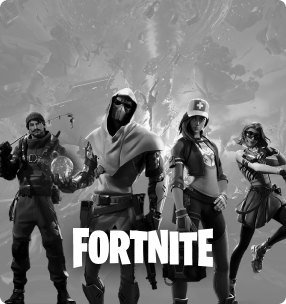
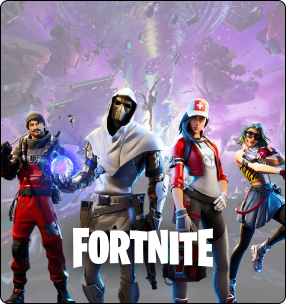
section-2-hover-mistakes-solved

diff --git a/index.html b/index.html
@@ -63,7 +63,7 @@
                         </li>
                         <li class="d-lg-none">
                             <button class="Signin-btn fw-medium fs-lg border-0 font-normalidad">
-                                SIGN IN
+                                SIGN UP
                             </button>
                         </li>
                     </ul>
@@ -81,7 +81,7 @@
                     </li>
                     <li>
                         <button class="Signin-btn fw-medium fs-lg  border-0 font-normalidad">
-                            SIGN IN
+                            SIGN UP
                         </button>
                     </li>
                 </ul>
@@ -170,25 +170,28 @@
                     <img class="position-absolute coming-soon-img" src="./assets/image/png/coming-soon-img.png"
                         alt="coming-soon-img" />
                     <div class="d-flex gap-2 mt-3">
-                        <svg width="40" height="40" viewBox="0 0 40 40" fill="none" xmlns="http://www.w3.org/2000/svg">
+                        <svg class="section-2-svg" width="40" height="40" viewBox="0 0 40 40" fill="none"
+                            xmlns="http://www.w3.org/2000/svg">
                             <path
                                 d="M0 8C0 3.58172 3.58172 0 8 0H32C36.4183 0 40 3.58172 40 8V32C40 36.4183 36.4183 40 32 40H8C3.58172 40 0 36.4183 0 32V8Z"
-                                fill="#151A1F" />
+                                fill="black" />
                             <path
-                                d="M7.28103 10.4234C7.43861 10.3376 7.53903 10.5109 7.62404 10.6022C13.0938 16.8496 18.5701 23.0924 24.0394 29.3398C24.1518 29.4288 24.0667 29.6189 23.9151 29.5985C21.2963 29.6012 18.677 29.5994 16.0582 29.5994C15.8484 29.6017 15.6475 29.5064 15.5188 29.357C12.8015 26.2576 10.0858 23.1569 7.36852 20.057C7.25319 19.9317 7.19353 19.7697 7.20099 19.6068C7.20099 16.6122 7.20199 13.6172 7.2 10.6226C7.20149 10.5518 7.19851 10.4601 7.28103 10.4234Z"
-                                fill="white" />
+                                d="M7.28103 10.4234C7.43861 10.3376 7.53903 10.5109 7.62404 10.6022C13.0938 16.8496 18.5701 23.0924 24.0394 29.3398C24.1518 29.4288 24.0668 29.6189 23.9151 29.5985C21.2963 29.6012 18.677 29.5994 16.0582 29.5994C15.8484 29.6017 15.6475 29.5064 15.5188 29.357C12.8015 26.2576 10.0858 23.1569 7.36852 20.057C7.25319 19.9317 7.19353 19.7697 7.20099 19.6068C7.20099 16.6122 7.20199 13.6172 7.2 10.6226C7.20149 10.5518 7.19851 10.4601 7.28103 10.4234Z"
+                                fill="#CC3944" />
                             <path
-                                d="M32.5784 10.4088C32.6903 10.3702 32.8136 10.4647 32.7972 10.5718C32.8011 13.5677 32.7967 16.5636 32.7991 19.5596C32.8066 19.7293 32.7658 19.9049 32.645 20.0384C31.8193 20.9815 30.9926 21.9242 30.1669 22.8668C30.0292 23.0302 29.804 23.1206 29.5788 23.1101C26.9774 23.1078 24.3755 23.1115 21.774 23.1083C21.6204 23.1301 21.5329 22.9408 21.6463 22.8496C25.2539 18.729 28.8644 14.6098 32.474 10.4901C32.5014 10.4547 32.5362 10.4274 32.5784 10.4088Z"
-                                fill="white" />
+                                d="M32.5784 10.4088C32.6903 10.3702 32.8136 10.4647 32.7972 10.5718C32.8011 13.5677 32.7967 16.5636 32.7991 19.5596C32.8066 19.7293 32.7658 19.9049 32.645 20.0384C31.8193 20.9815 30.9926 21.9242 30.1669 22.8668C30.0292 23.0302 29.804 23.1205 29.5788 23.1101C26.9774 23.1078 24.3755 23.1115 21.774 23.1083C21.6204 23.1301 21.5329 22.9408 21.6463 22.8496C25.2539 18.729 28.8644 14.6098 32.474 10.4901C32.5014 10.4547 32.5362 10.4274 32.5784 10.4088Z"
+                                fill="#CC3944" />
                         </svg>
                         <p class="fw-bold fs-lg text-white pt-1 font-normalidad">Valorant</p>
                     </div>
                 </div>
-                <div class="section-2-games-box">
+                <div class="section-2-games-box position-relative">
                     <img class="w-100 section-2-mx-w-h" src="./assets/image/png/Apex-section-2-img.png"
                         alt="Apex-section-2-img" />
+                    <img class="position-absolute coming-soon-img" src="./assets/image/png/coming-soon-img.png"
+                        alt="coming-soon-img" />
                     <div class="d-flex gap-2 mt-3">
-                        <svg class="mt-1" width="40" height="40" viewBox="0 0 40 40" fill="none"
+                        <svg class="section-2-svg" class="mt-1" width="40" height="40" viewBox="0 0 40 40" fill="none"
                             xmlns="http://www.w3.org/2000/svg">
                             <path
                                 d="M0 8C0 3.58172 3.58172 0 8 0H32C36.4183 0 40 3.58172 40 8V32C40 36.4183 36.4183 40 32 40H8C3.58172 40 0 36.4183 0 32V8Z"
@@ -209,12 +212,13 @@
                     <img class="position-absolute coming-soon-img" src="./assets/image/png/coming-soon-img.png"
                         alt="coming-soon-img" />
                     <div class="d-flex gap-2 mt-3">
-                        <svg width="40" height="40" viewBox="0 0 40 40" fill="none" xmlns="http://www.w3.org/2000/svg">
+                        <svg class="section-2-svg" width="40" height="40" viewBox="0 0 40 40" fill="none"
+                            xmlns="http://www.w3.org/2000/svg">
                             <path
                                 d="M0 8C0 3.58172 3.58172 0 8 0H32C36.4183 0 40 3.58172 40 8V32C40 36.4183 36.4183 40 32 40H8C3.58172 40 0 36.4183 0 32V8Z"
-                                fill="#151A1F" />
+                                fill="#312151" />
                             <path
-                                d="M19.4953 7.19995C19.5445 7.22757 19.5981 7.21679 19.6499 7.21679C20.7192 7.21731 21.7884 7.21389 22.8576 7.21836C23.4181 7.22073 23.9789 7.2423 24.5394 7.2444C24.8677 7.24572 25.1957 7.2231 25.5239 7.21705C25.7191 7.21337 25.7465 7.23809 25.7309 7.42563C25.6886 7.9417 25.7249 8.45855 25.7041 8.97462C25.6536 10.2309 25.6852 11.4874 25.6747 12.7439C25.6741 12.8004 25.6676 12.8572 25.6597 12.9135C25.6494 12.9879 25.6021 13.0198 25.5297 13.0106C25.1157 12.9582 24.6991 12.9672 24.2837 12.9669C23.4557 12.9661 22.6277 12.9808 21.7999 12.9922C21.5853 12.995 21.3709 13.0074 21.1566 13.0182C20.9824 13.0271 20.9682 13.0424 20.9682 13.2102C20.968 14.3925 20.9677 15.5749 20.9682 16.7569C20.9682 16.9621 20.9748 16.9631 21.1858 16.9673C21.8825 16.9813 22.5793 16.9579 23.2745 16.9308C23.6801 16.915 24.0886 16.9221 24.4929 16.8684C24.5678 16.8584 24.5989 16.8932 24.5999 16.9634C24.601 17.0378 24.6015 17.1123 24.6018 17.1867C24.602 17.7735 24.6018 18.3601 24.6028 18.9469C24.6041 19.8312 24.5092 20.7124 24.5173 21.5972C24.5189 21.7724 24.5202 21.9465 24.5439 22.1209C24.5702 22.3161 24.5147 22.3621 24.325 22.3482C23.9976 22.3237 23.6704 22.3042 23.341 22.3297C23.1233 22.3466 22.9039 22.3342 22.6845 22.325C22.2773 22.3077 21.8704 22.3313 21.4638 22.3555C21.3896 22.36 21.3147 22.3708 21.241 22.3658C21.1382 22.3589 21.1037 22.3966 21.1042 22.5007C21.1069 23.0042 21.0874 23.5084 21.104 24.0113C21.1395 25.0837 21.1034 26.1568 21.1379 27.2287C21.165 28.0738 21.13 28.9189 21.1653 29.763C21.1876 30.2964 21.1539 30.8309 21.2073 31.3635C21.2273 31.5629 21.1845 31.6132 20.9759 31.6573C19.46 31.9782 17.9437 32.297 16.4278 32.6169C16.1795 32.6692 15.9307 32.7205 15.6837 32.7784C15.4614 32.8305 15.4128 32.7978 15.4128 32.5732C15.4117 31.3078 15.4286 30.0421 15.4065 28.7769C15.3731 26.8591 15.4175 24.9411 15.3794 23.0239C15.3604 22.078 15.3888 21.1322 15.3538 20.1874C15.3228 19.3509 15.3588 18.5147 15.3299 17.6791C15.2984 16.773 15.3328 15.8663 15.3005 14.9609C15.276 14.2778 15.3068 13.5948 15.277 12.9127C15.2471 12.2209 15.2805 11.5289 15.2486 10.8385C15.2205 10.2256 15.2536 9.61194 15.2205 9.00066C15.1929 8.48354 15.211 7.96826 15.2008 7.45246C15.1966 7.22941 15.2005 7.22967 15.4217 7.21494C15.4475 7.2131 15.473 7.20521 15.4985 7.19995H19.4953Z"
+                                d="M19.4953 7.19995C19.5445 7.22757 19.5981 7.21679 19.6499 7.21679C20.7192 7.21731 21.7884 7.21389 22.8576 7.21836C23.4181 7.22073 23.9789 7.2423 24.5394 7.2444C24.8677 7.24572 25.1957 7.2231 25.5239 7.21705C25.7191 7.21337 25.7465 7.23809 25.7309 7.42563C25.6886 7.9417 25.7249 8.45855 25.7041 8.97462C25.6536 10.2309 25.6852 11.4874 25.6747 12.7439C25.6741 12.8004 25.6676 12.8572 25.6597 12.9135C25.6494 12.9879 25.6021 13.0198 25.5297 13.0106C25.1157 12.9582 24.6991 12.9672 24.2837 12.9669C23.4557 12.9661 22.6277 12.9808 21.7999 12.9922C21.5853 12.995 21.3709 13.0074 21.1566 13.0182C20.9824 13.0271 20.9682 13.0424 20.9682 13.2102C20.968 14.3925 20.9677 15.5749 20.9682 16.7569C20.9682 16.9621 20.9748 16.9631 21.1858 16.9673C21.8825 16.9813 22.5793 16.9579 23.2745 16.9308C23.6801 16.915 24.0886 16.9221 24.4929 16.8684C24.5678 16.8584 24.5989 16.8932 24.5999 16.9634C24.601 17.0378 24.6015 17.1123 24.6018 17.1867C24.602 17.7735 24.6018 18.3601 24.6028 18.9469C24.6041 19.8312 24.5092 20.7124 24.5173 21.5972C24.5189 21.7724 24.5202 21.9465 24.5439 22.1209C24.5702 22.3161 24.5147 22.3621 24.325 22.3482C23.9976 22.3237 23.6704 22.3042 23.341 22.3297C23.1233 22.3466 22.9039 22.3342 22.6845 22.325C22.2773 22.3077 21.8704 22.3313 21.4638 22.3555C21.3896 22.36 21.3147 22.3708 21.241 22.3658C21.1382 22.3589 21.1037 22.3966 21.1042 22.5007C21.1069 23.0042 21.0874 23.5084 21.104 24.0113C21.1395 25.0837 21.1034 26.1568 21.1379 27.2287C21.165 28.0738 21.13 28.9189 21.1653 29.763C21.1876 30.2964 21.1539 30.8309 21.2073 31.3635C21.2273 31.5629 21.1845 31.6132 20.9759 31.6573C19.46 31.9782 17.9437 32.297 16.4278 32.6169C16.1795 32.6692 15.9307 32.7205 15.6837 32.7784C15.4614 32.8305 15.4128 32.7979 15.4128 32.5732C15.4117 31.3078 15.4286 30.0421 15.4065 28.7769C15.3731 26.8591 15.4175 24.9411 15.3794 23.0239C15.3604 22.078 15.3888 21.1322 15.3538 20.1874C15.3228 19.3509 15.3588 18.5147 15.3299 17.6791C15.2984 16.773 15.3328 15.8663 15.3005 14.9609C15.276 14.2778 15.3068 13.5948 15.277 12.9127C15.2471 12.2209 15.2805 11.5289 15.2486 10.8385C15.2205 10.2256 15.2536 9.61194 15.2205 9.00066C15.1929 8.48354 15.211 7.96826 15.2008 7.45246C15.1966 7.22941 15.2005 7.22967 15.4217 7.21494C15.4475 7.2131 15.473 7.20521 15.4985 7.19995H19.4953Z"
                                 fill="white" />
                         </svg>
                         <p class="fw-bold fs-lg text-white pt-2 m-0 font-normalidad">Fortnite</p>
@@ -226,10 +230,11 @@
                     <img class="position-absolute coming-soon-img" src="./assets/image/png/coming-soon-img.png"
                         alt="coming-soon-img" />
                     <div class="d-flex gap-2 mt-3">
-                        <svg width="40" height="40" viewBox="0 0 40 40" fill="none" xmlns="http://www.w3.org/2000/svg">
+                        <svg class="section-2-svg" width="40" height="40" viewBox="0 0 40 40" fill="none"
+                            xmlns="http://www.w3.org/2000/svg">
                             <path
                                 d="M0 8C0 3.58172 3.58172 0 8 0H32C36.4183 0 40 3.58172 40 8V32C40 36.4183 36.4183 40 32 40H8C3.58172 40 0 36.4183 0 32V8Z"
-                                fill="#151A1F" />
+                                fill="#536CEA" />
                             <path
                                 d="M19.068 18.3411C19.068 18.3411 19.7405 18.392 20.3096 19.1049L19.9992 19.1558L19.844 19.1049C19.844 19.1049 19.3784 18.5447 19.068 18.3411ZM18.0333 21.4981L17.7229 20.7343H17.6194L17.1021 21.3453C17.4642 21.6508 18.0333 21.4981 18.0333 21.4981ZM22.7928 17.0172L22.5341 17.119L22.8445 17.6791L23.8792 18.0356C23.4653 17.1699 22.7928 17.0172 22.7928 17.0172ZM19.844 18.0865C20.1544 18.4429 20.4648 18.9521 20.4648 18.9521C20.9821 18.4429 22.0685 18.2392 23.4653 18.2902C21.4994 17.8828 19.844 18.0865 19.844 18.0865ZM17.9298 17.3227C17.9298 17.3227 18.4989 17.3227 19.2749 17.4754C18.7576 17.119 17.9298 16.9153 17.9298 16.9153V17.3227ZM22.6893 20.1232L21.8098 20.887L22.4824 21.0907L23.1549 20.3778L22.7928 20.2251L22.6893 20.1232ZM16.8434 16.1006C16.8434 16.1006 17.2056 16.3043 17.2573 16.3043C17.309 16.3043 18.0333 16.5589 18.3437 16.6607C18.6024 16.7626 18.7576 16.6607 18.8093 16.6607C18.861 16.6607 19.7405 16.1516 19.7405 16.1516C18.9645 15.846 18.2402 15.6424 18.2402 15.6424C18.1885 15.6424 16.8434 16.1006 16.8434 16.1006ZM22.1202 16.5589C22.0685 16.4571 21.965 16.4571 21.3442 16.3552C20.7752 16.3043 20.2578 16.2534 20.1544 16.2534C20.0509 16.2534 19.9992 16.3043 19.9992 16.3043C19.9992 16.3043 19.6888 16.508 19.4301 16.6607C19.1714 16.8135 19.1197 16.8644 19.068 16.9663C19.0162 17.0172 19.1714 17.2209 19.1714 17.2209L19.5853 17.73C19.637 17.73 19.7922 17.8319 19.7922 17.8319C19.7922 17.8319 20.62 17.781 21.1373 17.73H22.4824C22.5341 17.73 22.4824 17.5264 22.3789 17.2718C22.2754 17.0681 22.1202 16.5589 22.1202 16.5589ZM17.2056 17.119C17.2056 17.119 17.2573 17.119 17.3608 17.1699C17.4642 17.1699 17.516 17.0681 17.516 16.9663C17.516 16.8135 17.3608 16.7626 17.3608 16.7626H17.2573L17.1021 16.8135L17.0503 17.1699H17.1021L17.2056 17.119C17.1538 17.0172 17.1538 16.9663 17.1538 16.8644C17.1538 16.8135 17.2573 16.7117 17.309 16.7117C17.309 16.7117 17.4125 16.7117 17.3608 16.9153C17.3608 17.119 17.2056 17.119 17.2056 17.119ZM25.9485 21.1416L25.5347 21.7017V21.7526H26.1037C26.2072 21.3962 25.9485 21.1416 25.9485 21.1416ZM15.6018 18.4938H15.4983L15.2397 18.4429C14.981 18.392 15.0845 17.9337 15.0845 17.9337L14.7741 18.0356C14.6706 17.8319 14.205 17.2718 14.205 17.2718L14.1015 17.6791C14.1533 17.73 14.4119 18.1374 14.4637 18.2392L14.3085 18.392C14.3085 18.392 14.2567 18.4938 14.2567 18.5447C14.2567 18.5957 14.205 18.6466 14.205 18.6466L13.9981 18.7484H13.9463L13.2221 18.1883V18.5957H13.2738C13.3255 18.6975 13.429 18.9012 13.6877 19.003C13.8946 19.1049 14.1533 19.1049 14.2567 19.0539C14.3602 19.1049 14.4119 19.1049 14.4637 19.1558C14.6706 19.2576 14.7223 19.2067 14.7223 19.2067L15.0327 19.1049H15.0845L15.1362 19.0539L15.2397 18.8503C15.2397 18.8503 15.757 18.9012 15.9639 18.9012C16.1709 18.5957 16.8434 18.1374 17.309 18.0865C17.7746 18.0865 18.5506 18.1883 19.1714 18.7993C19.7405 19.4104 19.5853 20.2251 19.5853 20.2251L20.7234 20.5815L20.2061 20.2251C19.7922 19.2067 18.8093 18.2902 18.8093 18.2902C18.8093 18.2902 18.5506 18.2392 18.3954 18.2392C18.2402 18.1883 18.1368 18.0865 18.1368 18.0865C18.1368 18.0865 18.085 18.0356 17.9816 17.8828L17.8781 17.6791C17.8781 17.6791 17.7746 17.5773 17.6194 17.4754C17.4642 17.3736 16.8951 17.3227 16.5847 17.2718C16.2743 17.2209 16.2743 17.2718 16.2743 17.2718C17.1538 17.4754 17.4125 17.5264 17.4642 17.5773C17.4642 17.5773 17.516 17.6791 17.5677 17.73C16.8434 17.5773 16.1709 17.6791 16.0157 17.73C16.1191 17.8828 16.1191 18.0865 16.0157 18.2392C15.9122 18.3411 15.6018 18.4938 15.6018 18.4938ZM25.4312 22.16L25.5864 22.8219C25.5864 22.8219 25.7416 22.6692 25.8968 22.4655C26.052 22.2618 26.1037 22.0582 26.1037 22.0582L25.4829 22.1091L25.4312 22.16ZM12.9634 17.5264L12.9117 18.0865H13.2221L13.2738 17.73V17.9337H13.3255V17.6282H13.2738V17.4245L13.7394 17.6791L13.7911 17.781L13.8946 17.8828H13.9981L14.0498 17.8319V17.781C13.7394 17.781 13.7394 17.6282 13.7394 17.6282C13.7394 17.6282 13.7911 17.2718 13.8429 17.1699C13.8946 17.0681 14.1015 17.119 14.1015 17.119L14.0498 17.0681H13.9463C13.8429 17.0172 13.5325 16.8135 13.429 16.7626V16.7117L13.4807 16.6607V16.4571H13.5325C13.5325 16.4062 13.5842 16.4062 13.5842 16.3552C13.6877 16.3552 14.4637 16.2025 14.4637 16.2025L13.7394 16.0497V15.9988C13.5325 15.9479 13.3773 15.897 13.2738 15.846C13.0151 16.1516 12.9117 16.5589 12.9117 16.5589C12.9117 16.5589 12.8599 17.2718 12.8599 17.3736C12.8082 17.4754 12.9634 17.5264 12.9634 17.5264ZM25.1208 21.549L25.2243 21.7017L25.276 21.6508L25.6899 21.1416V21.0907C25.4829 21.0907 25.1208 21.549 25.1208 21.549ZM23.8792 20.6324L23.5688 20.5306L22.8445 21.3453L23.3619 21.4981C23.4653 21.0907 23.8792 20.6324 23.8792 20.6324ZM24.9656 21.8036C24.7069 22.3128 24.7587 22.6692 24.7587 22.6692L25.0173 22.1091V22.0072C25.0691 22.0072 25.0173 21.9054 24.9656 21.8036ZM24.7069 18.4938C24.7069 18.4938 24.6035 18.6975 24.5517 18.7484C24.5 18.7993 24.1379 18.8503 23.9309 18.9012C23.724 19.003 23.3619 19.1558 23.2584 19.2576C23.2067 19.3085 23.2067 19.4613 23.2067 19.5122C23.2067 19.5122 23.3101 19.5631 23.3619 19.5631L22.8963 19.9705L22.9997 20.0723L24.1379 20.4288C24.3965 20.2251 24.7587 20.1742 24.7587 20.1742C24.5517 20.0723 23.6723 19.7159 23.4136 19.614C23.4136 19.614 23.2584 19.5631 23.2584 19.5122V19.3595C23.2584 19.3595 23.9309 18.8503 24.9656 18.8503L25.1208 18.5447L24.7069 18.4938ZM25.3795 22.9747L25.1725 22.3637H25.1208L24.8104 22.9238L24.8621 22.9747C25.1208 23.0765 25.3795 22.9747 25.3795 22.9747ZM17.5677 17.1699L17.7229 17.2209C17.7229 17.2209 17.8264 17.2209 17.8264 17.119V16.9153L17.6712 16.8135L17.4642 16.7626C17.516 16.8135 17.516 16.8644 17.516 16.8644H17.5677C17.5677 16.8135 17.6194 16.8135 17.6194 16.8644C17.6194 16.8644 17.7229 16.9153 17.6712 17.0681C17.7229 17.119 17.6194 17.1699 17.5677 17.1699ZM17.1021 19.9705C16.7399 20.6324 16.9986 21.0907 16.9986 21.0907L17.4642 20.4288V20.3269L17.1021 19.9705ZM13.7394 16.0497L14.3602 16.2025C14.4119 16.2025 14.7741 16.1516 14.7741 16.1516L13.7911 15.897L13.7394 16.0497ZM14.1015 15.897C14.9293 15.9988 15.0845 16.1516 15.0845 16.1516C15.0845 16.1516 15.3949 16.1006 15.5501 16.1006C15.2914 15.897 14.1533 15.5405 14.1533 15.5405C14.1533 15.5405 14.1015 15.6933 14.1015 15.897ZM15.3431 17.4754C15.1879 17.5773 15.0327 17.8828 15.0845 18.1374C15.1362 18.392 15.1879 18.392 15.3431 18.392C15.0845 18.2902 15.1362 17.8828 15.3431 17.6282C15.4983 17.4245 15.6535 17.5773 15.6535 17.5773C15.6535 17.5773 15.4983 17.3736 15.3431 17.4754ZM11.67 25.0115C10.9975 25.0115 10.2215 25.2661 10.6871 25.9789C14.5154 32.4456 18.5506 33.9732 20.2578 34.7879C21.0338 34.4315 22.2755 33.8714 23.7757 32.853C24.6552 32.2929 24.5517 31.4273 24.3448 30.8672C23.2584 28.2194 17.309 25.2151 11.67 25.0115ZM33.243 12.9437C31.691 11.8744 27.8627 9.93943 20.2578 9.93943C17.6194 9.93943 15.3949 10.194 13.6359 10.5505C14.0498 11.2124 14.2567 11.9762 14.2567 12.7909C14.2567 13.9111 13.8429 14.9295 13.1703 15.6933C13.3255 15.7442 13.5325 15.7951 13.7911 15.846L13.8946 15.5914C13.8946 15.5914 13.9981 15.5914 14.0498 15.6424C14.0498 15.3878 14.205 15.3878 14.205 15.3878C14.205 15.3878 14.205 15.3369 14.2567 15.3369C14.5154 15.3878 15.2397 15.7442 15.5501 15.897C15.8605 16.0497 15.8605 16.1006 15.8605 16.1006C15.8605 16.1006 16.5847 16.1006 16.7917 16.0497C16.9986 16.0497 17.3608 15.897 17.8781 15.7442C18.3954 15.5914 18.4989 15.5405 18.6024 15.5405C18.7058 15.5405 19.637 15.5914 20.4648 15.6933C21.2925 15.7951 22.0685 16.1006 22.2237 16.2025L22.4824 16.2534L22.5341 16.1006L22.1202 15.9479C22.1202 15.9479 22.172 15.6933 22.172 15.6424C22.172 15.5914 22.2237 15.5405 22.2754 15.5405C22.3272 15.5405 22.7928 15.6424 22.948 15.6933C23.1032 15.7442 23.6205 16.1006 23.6723 16.1006C23.724 16.1006 23.724 16.1516 23.724 16.1516C23.724 16.2534 23.6205 16.4571 23.6205 16.4571C23.6205 16.4571 23.7757 16.508 23.8275 16.5589C23.8792 16.6098 24.0344 16.7117 24.1896 16.8644C24.3448 16.9663 24.2931 17.119 24.2931 17.119L24.6552 17.4754V17.6282L25.5347 18.4938V18.5447L25.1208 18.7993C25.1208 18.7993 25.6899 18.7484 26.1037 18.9521C26.5176 19.1558 26.5693 19.2576 26.5693 19.3595C26.4659 19.4104 26.3107 19.4613 26.3107 19.4613C26.0003 19.5631 25.2243 20.0723 25.2243 20.0723V20.1232L25.6381 20.2251C26.1037 19.8177 26.9315 19.665 27.5523 19.7668C29.6734 20.1742 31.1219 21.549 31.4323 22.7201C31.4323 22.771 31.484 22.8729 31.484 22.9238C33.6051 18.0356 33.3982 14.5221 33.243 12.9437ZM25.7933 20.3778C25.8451 20.4288 25.8968 20.4288 25.9485 20.4797C26.2589 20.6833 26.4141 20.7852 26.4659 21.2435C26.5176 21.5999 26.4141 22.1091 26.1555 22.5674C27.604 23.5348 29.6216 22.771 30.3976 23.5348C30.2424 21.5999 27.3454 19.665 25.7933 20.3778ZM13.8946 17.8828L13.7911 17.9337V18.3411L13.8946 18.2902V17.8828ZM28.8456 24.1968C27.7592 24.1968 26.6728 23.8403 25.8968 22.9238V22.9747C25.4312 23.5857 24.9139 23.5857 24.7069 23.5857C24.5 23.5857 23.8275 23.2802 23.5688 22.9747C23.3101 22.6692 23.3101 22.1091 23.3101 22.1091L22.2754 21.7526L20.9821 21.0398L20.7752 20.9889C20.3613 21.1925 19.844 21.0398 19.3784 20.6833C19.3266 20.887 19.068 21.3962 18.7576 21.6508C18.4472 21.9054 17.8264 22.2618 17.3608 22.2618C16.8951 22.2618 15.8605 21.7526 15.5501 21.0398C15.2397 20.3269 15.5501 19.5631 15.5501 19.5631L15.0327 19.4613L14.8258 19.2067C14.8258 19.2067 14.205 19.7159 13.5325 19.5122C12.8599 19.3085 12.2909 18.7484 12.1357 18.2392C12.0322 17.73 12.1874 17.2718 12.2391 17.2209C12.1357 16.8644 12.1357 16.6607 12.1357 16.6607H12.0839V16.508C11.4114 16.9663 10.6354 17.1699 9.80764 17.1699C8.87643 17.1699 7.99696 16.8644 7.27269 16.4062C7.37615 17.5264 7.68656 18.8503 8.10043 20.3269C8.6695 22.3637 10.5319 23.0256 13.3255 23.4839C19.4818 24.4514 25.3795 29.085 24.9656 31.9365C26.5176 30.6635 28.1731 28.7795 29.8286 25.9789C30.5011 24.9096 29.8803 24.1968 28.8456 24.1968ZM12.3943 17.1699L12.3426 17.73H12.7047V17.6791H12.653V17.6282H12.6013L12.653 17.5264L12.7047 17.2718L12.653 17.2209V17.119L12.7047 17.0681L12.7565 16.4571L12.4978 16.3043C12.6013 15.897 12.8599 15.5405 12.8599 15.5405H12.7047C12.4461 15.846 12.3426 16.2534 12.3426 16.2534C12.3426 16.2534 12.2909 16.9153 12.2909 17.0172C12.2909 17.1699 12.3943 17.1699 12.3943 17.1699ZM18.085 20.5815L18.3437 21.3962C18.861 21.0398 18.9645 20.4797 18.9645 20.4797L18.1368 20.5306L18.085 20.5815ZM18.5506 19.3085L18.1368 20.0214L18.1885 20.0723L19.0162 20.1232C19.0162 19.5631 18.5506 19.3085 18.5506 19.3085ZM13.3773 17.73L13.3255 18.0356H13.3773V17.73ZM17.309 19.665L17.7229 19.9705L17.8264 19.9196L18.292 19.2067C17.7229 19.1558 17.309 19.665 17.309 19.665ZM13.4807 17.781L13.429 17.73V18.0865H13.4807V17.781ZM13.6359 17.8828L13.5842 18.2392H13.6359V17.8828ZM13.7394 17.9337L13.6877 18.2902H13.7394V17.9337ZM13.5325 17.8319V18.1883H13.4807L13.5325 17.8319ZM23.811 16.1819H23.8445L24.1982 16.3397H24.3864C24.9425 16.5494 25.2305 16.6591 25.2505 16.669C25.2704 16.6788 25.3227 16.7323 25.4072 16.8294L26.1818 17.174L26.1541 17.28L26.1401 17.3837C25.7763 17.2081 25.5897 17.1276 25.5804 17.1423C25.5712 17.157 25.5613 17.2029 25.5507 17.28L24.9949 17.9192L24.979 18H24.9362L24.6512 17.7349V17.6535L24.9189 17.6282L25.4072 17.1423C25.4291 17.0991 25.437 17.0713 25.431 17.0588C25.4219 17.0401 25.0572 16.8881 25.0224 16.8569C24.9991 16.8361 24.9704 16.7983 24.9362 16.7435C24.5202 16.5826 24.298 16.4968 24.2695 16.486C24.241 16.4751 24.1861 16.4701 24.1047 16.4707C24.0861 16.5022 24.0753 16.5208 24.0725 16.5264C24.0697 16.5321 24.0248 16.5886 23.9376 16.6962L23.8445 16.669C23.8265 16.6326 23.8265 16.6139 23.8445 16.6128C23.8626 16.6117 23.9093 16.5503 23.9847 16.4288L23.7575 16.3397L23.811 16.1819ZM26.2844 17.1516C26.9901 17.1538 27.3661 17.1538 27.4125 17.1516C27.4821 17.1484 28.0276 17.2681 28.0305 17.2798C28.0324 17.2877 28.0424 17.3086 28.0606 17.3427L27.5109 17.7576C27.3574 17.7515 27.2491 17.7284 27.1858 17.6882C27.0908 17.628 26.7616 17.5334 26.6803 17.5054C26.6261 17.4868 26.481 17.4568 26.2449 17.4155C26.2415 17.3134 26.2415 17.2524 26.2449 17.2325C26.2482 17.2125 26.2614 17.1856 26.2844 17.1516ZM9.99996 16C8.15901 16 6.66663 14.5077 6.66663 12.6667C6.66663 10.8258 8.15901 9.33337 9.99996 9.33337C11.8409 9.33337 13.3333 10.8258 13.3333 12.6667C13.3333 14.5077 11.8409 16 9.99996 16Z"
                                 fill="white" />
@@ -266,7 +271,8 @@
                 <div class="container">
                     <div class="row">
                         <div class="col-12 col-lg-6 px-custom-xl-3 pl-96 pl-xl-0">
-                            <img class="position-absolute section-4-bg-line md-w-100" src="./assets/image/png/section-4-bg-line.png" alt="section-4-bg-line">
+                            <img class="position-absolute section-4-bg-line md-w-100"
+                                src="./assets/image/png/section-4-bg-line.png" alt="section-4-bg-line">
                             <div class="d-flex gap-2 pt-76 section-4-btns">
                                 <div
                                     class="d-flex gap-2 meet-card py-2 px-12 mx-w-95 w-100 justify-content-center align-items-center">

diff --git a/assets/css/style.css b/assets/css/style.css
@@ -366,18 +366,32 @@
     max-width: 286px;
 }
 
-.section-2-mx-w-h {
-    width: 286px;
-    height: 304px;
-}
-
-
 .section-2-games-box {
     border-radius: 16px;
     padding: 16px;
     background-color: var(--bg-light-black);
     transition: all 200ms linear;
     max-width: 318px;
+    width: 286px;
+    height: 304px;
+    transition: all 200ms linear;
+}
+
+.section-2-mx-w-h,
+.section-2-svg {
+    filter: grayscale();
+}
+
+.section-2-games-box:hover .section-2-mx-w-h {
+    filter: none;
+}
+
+.section-2-games-box:hover .section-2-svg {
+    filter: none;
+}
+
+.section-2-games-box:hover .coming-soon-img {
+    display: none;
 }
 
 .coming-soon-img {
